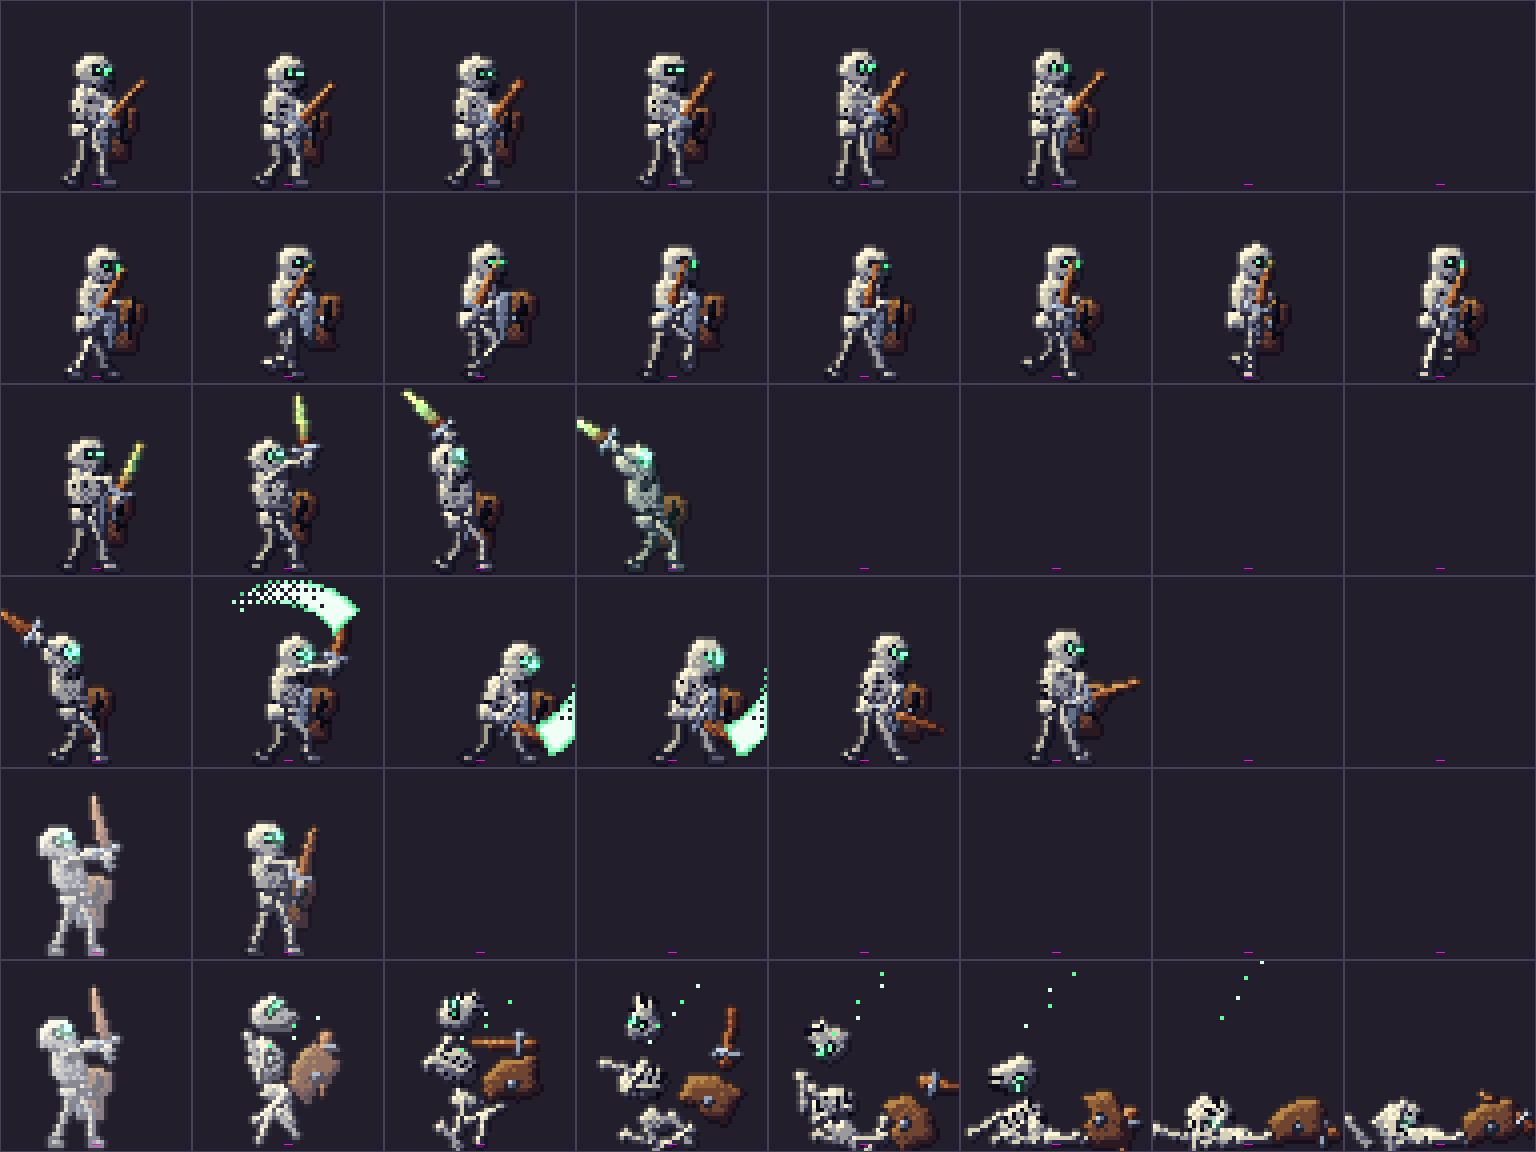
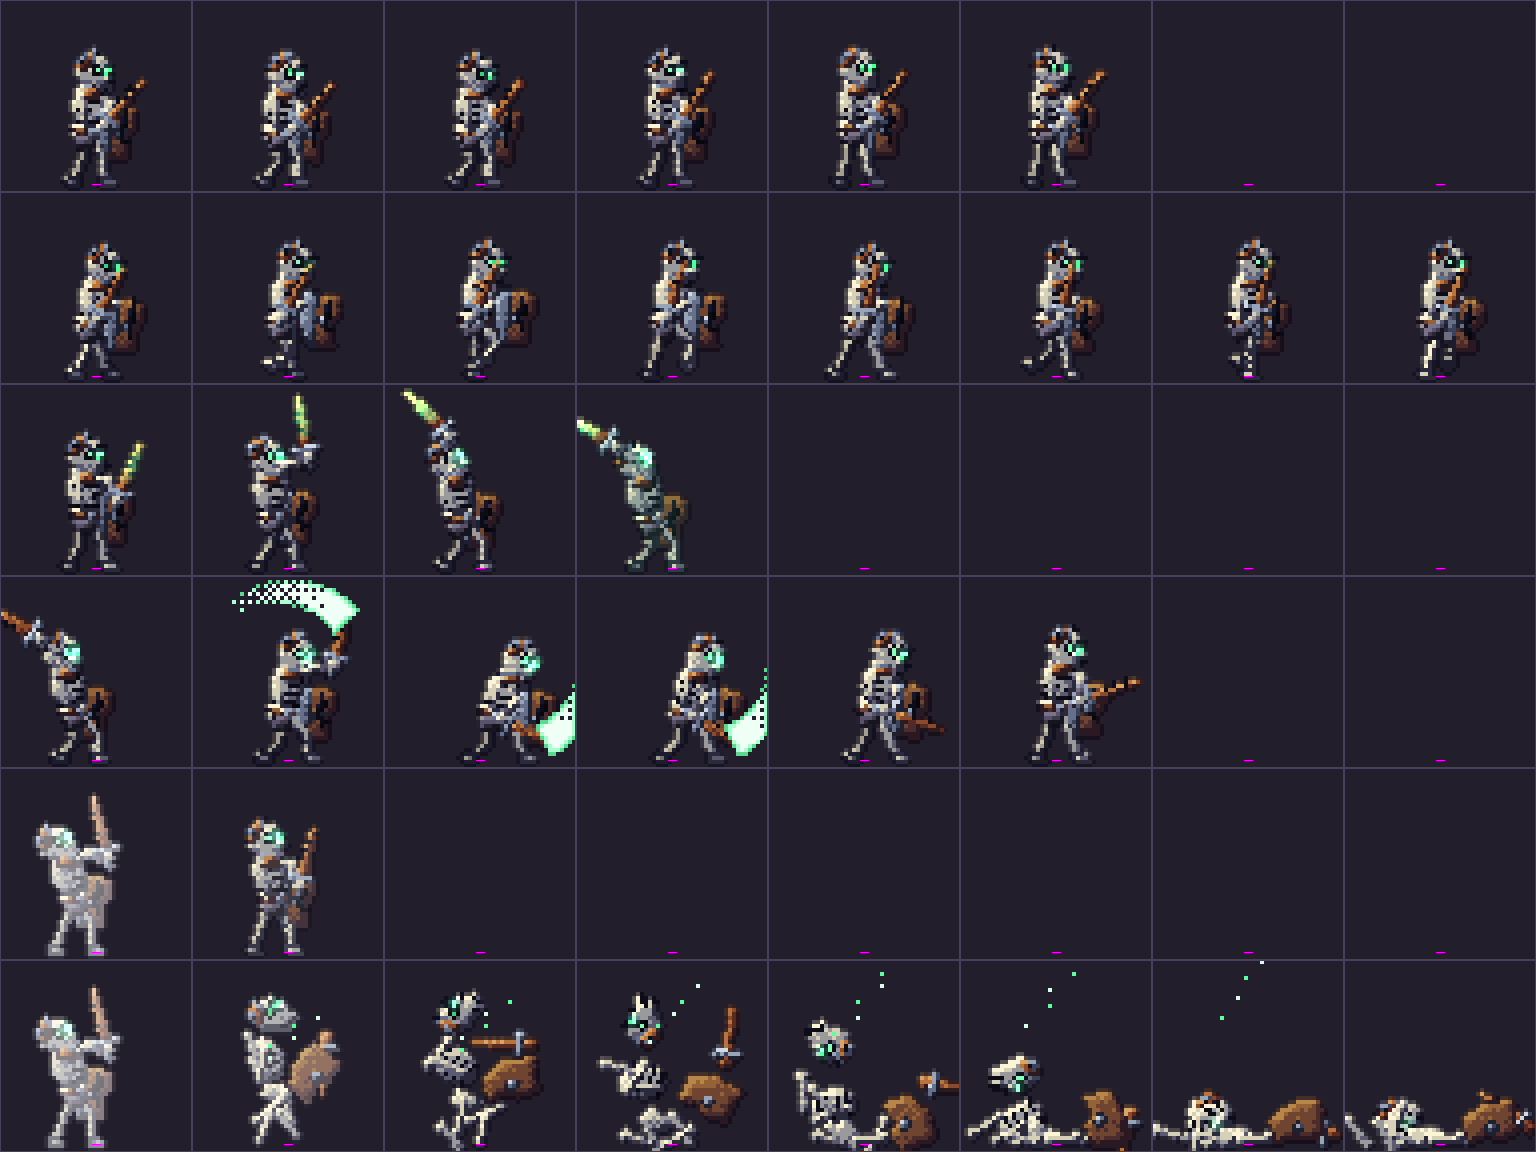
Enemigos (piloto): esqueleto con casquete de hierro oxidado, hombrera, trapo y mellas; herramientas regen/cmp/check de enemigos; diagnostico en ArsenalProbe
Claude-Session: https://claude.ai/code/session_011eeWNo3MRZcztybaatA5Az

diff --git a/tools/art_enemies/en_catacumbas.py b/tools/art_enemies/en_catacumbas.py
@@ -13,7 +13,7 @@ EYE = Mat(ramp=['#1c8a52', '#3cd07a', '#8affb8', '#e8fff0'], emi=True, nooutline
 CLOTH_S = Mat(ramp=['#161420', '#2a2634', '#3f3a4a', '#58526a', '#7a7288'], bevel=1.2, tex=0.3, seed=2)
 
 
-def skel_head(c, x, y, tilt, jaw, eyeamt, mat=BONE):
+def skel_head(c, x, y, tilt, jaw, eyeamt, mat=BONE, cap=False):
     with c.at(x, y, tilt):
         with c.part(mat, bevel=1.6) as p:
             p.ell(0, 0, 4.4, 4.0)                          # craneo
@@ -29,8 +29,21 @@ def skel_head(c, x, y, tilt, jaw, eyeamt, mat=BONE):
         with c.part(DARK) as p:  # dientes
             for k in range(3):
                 p.rect(-0.3 + k * 1.6, 3.7 + jaw * 0.3, 0.3 + k * 1.6, 4.9 + jaw * 0.9)
-        if eyeamt > 0.6:
-            pass
+        with c.part(DARK) as p:                                   # grietas del craneo y arco superciliar
+            p.limb((-0.4, -3.9), (0.3, -1.6), 0.18)
+            p.limb((0.3, -1.6), (-0.5, -0.4), 0.15)
+            p.limb((1.8, -2.0), (4.2, -1.9), 0.16)
+        with c.part(mat, bevel=0.8) as p:                         # pomulo marcado
+            p.poly([(1.6, 1.0), (4.0, 0.9), (4.2, 2.2), (2.2, 2.4)])
+        if cap:                                                   # casquete de hierro oxidado (identidad del esqueleto)
+            with c.part(RUST, line=0.4, bevel=1.2) as p:
+                p.poly([(-4.5, -0.2), (-3.9, -3.8), (-1.2, -4.9), (0.6, -4.4), (-0.4, -2.6), (-2.2, 0.2)])
+            with c.part(IRON, bevel=0.7) as p:
+                p.poly([(-4.4, -1.4), (-3.7, -3.6), (-2.0, -4.4), (-1.9, -3.2)])
+                p.limb((-0.2, -5.0), (0.2, -2.3), 0.35)
+            with c.part(DARK) as p:
+                p.ell(-2.8, -2.3, 0.35)
+                p.ell(0.8, -4.2, 0.3)
 
 
 def skel_pose(a, i, n):
@@ -156,19 +169,32 @@ def draw_esqueleto(c, a, i, n):
                 p.rect(-3.2, -5.4 + k * 2.4, 3.2, -4.7 + k * 2.4 + 0.2)
         with c.part(BONE, bevel=0.8) as p:
             p.limb((-2.0, -6.8), (-1.2, 2.0), 0.9, 0.8)   # esternon/columna visible
-            for k in range(4):
-                p.limb((-2.0, -5.8 + k * 2.4), (3.4, -5.0 + k * 2.4), 0.5, 0.45)
+            p.limb((-2.0, -6.3), (3.8, -7.0), 0.5, 0.45)  # clavicula
     # --- pierna delantera
     leg(c, (hip[0] + 1.0, hip[1] + 1), (hip[0] + 1.0 + f2[0], f2[1]), 6.6, 6.6, 1.0, 0.95, BONE, bend=-1)
+    # trapo de cintura colgando de un cinto de cuero
+    with c.at(hip[0], hip[1], lean * 0.5):
+        with c.part(CLOTH_S, line=0.4, bevel=1.3) as p:
+            p.poly([(-2.4, 1.2), (1.6, 1.0), (2.0, 3.8), (0.8, 4.8), (-0.4, 4.0), (-1.4, 5.4), (-2.6, 3.6)])
+        with c.part(WOODS, line=0.3, bevel=0.8) as p:
+            p.poly([(-3.4, -0.4), (3.4, -0.6), (3.5, 0.9), (-3.4, 1.1)])
+        with c.part(IRON, bevel=0.6) as p:
+            p.rect(0.8, -0.8, 2.2, 1.4)
     # --- cabeza
     skel_head(c, neck[0] + 3.5 * math.sin(lean + P['tilt']) + 0.5, neck[1] - 3.8 * math.cos(lean + P['tilt']) , lean * 0.6 + P['tilt'],
-              P['jaw'], P['eye'])
+              P['jaw'], P['eye'], cap=True)
     # --- brazo espada (cercano)
     A1, A2 = P['arm']
     e, hand = fk(shoulder, A1, 5.8, A2, 5.6)
     # trapo/bufanda
     bone(c, shoulder, e, 0.95, BONE)
     bone(c, e, hand, 0.9, BONE)
+    with c.part(RUST, line=0.4, bevel=1.3) as p:      # hombrera oxidada
+        p.poly([(shoulder[0] - 2.2, shoulder[1] + 1.0), (shoulder[0] - 1.4, shoulder[1] - 1.6), (shoulder[0] + 1.2, shoulder[1] - 2.2), (shoulder[0] + 2.6, shoulder[1] - 0.4), (shoulder[0] + 1.8, shoulder[1] + 1.4)])
+    with c.part(IRON, bevel=0.6) as p:
+        p.limb((shoulder[0] - 1.8, shoulder[1] - 1.8), (shoulder[0] + 2.2, shoulder[1] - 1.4), 0.3)
+    with c.part(CLOTH_S, bevel=0.8) as p:             # venda en la muneca
+        p.limb((lerp(e[0], hand[0], 0.7), lerp(e[1], hand[1], 0.7) - 0.8), (lerp(e[0], hand[0], 0.7), lerp(e[1], hand[1], 0.7) + 0.9), 1.2)
     # espada oxidada
     sa = P['swa']
     d = (math.cos(sa), math.sin(sa))
@@ -184,6 +210,11 @@ def draw_esqueleto(c, a, i, n):
         p.limb((hand[0] + nrm[0] * 2.6 + d[0] * 2.2, hand[1] + nrm[1] * 2.6 + d[1] * 2.2),
                (hand[0] - nrm[0] * 2.6 + d[0] * 2.2, hand[1] - nrm[1] * 2.6 + d[1] * 2.2), 0.8)
         p.limb(base, (hand[0] + d[0] * 1.5, hand[1] + d[1] * 1.5), 0.9)
+    with c.part(DARK) as p:                           # mellas del filo
+        for q in (0.35, 0.55, 0.78):
+            p.poly([(hand[0] + d[0] * (2.5 + 11 * q) - nrm[0] * 1.2, hand[1] + d[1] * (2.5 + 11 * q) - nrm[1] * 1.2),
+                    (hand[0] + d[0] * (3.2 + 11 * q) - nrm[0] * 0.2, hand[1] + d[1] * (3.2 + 11 * q) - nrm[1] * 0.2),
+                    (hand[0] + d[0] * (3.4 + 11 * q) - nrm[0] * 1.3, hand[1] + d[1] * (3.4 + 11 * q) - nrm[1] * 1.3)])
     with c.part(BONE, bevel=0.6) as p:
         p.ell(hand[0], hand[1], 1.4)
     if a == 'windup':
@@ -203,7 +234,7 @@ TRAILM = Mat(ramp=['#2e8a5c', '#5cd890', '#a8ffd0', '#effff6'], emi=True, nooutl
 
 
 def _p_skull(c):
-    skel_head(c, 0, 0, 0, 1.5, 0.2)
+    skel_head(c, 0, 0, 0, 1.5, 0.2, cap=True)
 
 
 def _p_ribs(c):

diff --git a/tools/tests/enemy_sheets_check.py b/tools/tests/enemy_sheets_check.py
@@ -1,0 +1,36 @@
+#!/usr/bin/env python3
+"""Comprueba (automatico, sin dispositivo) las hojas de enemigos/jefes frente a una base git: JSON funcional identico,
+mismo tamano de hoja, ningun fotograma vacio, pies (pivote) y caja de silueta estables y cambio de silueta acotado.
+Uso: enemy_sheets_check.py [BASE]   (BASE por defecto: d9017b6 = antes de la fase de enemigos)"""
+import glob, io, json, os, subprocess, sys
+from PIL import Image, ImageChops
+BASE = sys.argv[1] if len(sys.argv) > 1 else 'd9017b6'
+ROOT = os.path.join(os.path.dirname(os.path.abspath(__file__)), '..', '..')
+def git(path):
+    return subprocess.run(['git', 'show', f'{BASE}:{path}'], cwd=ROOT, capture_output=True, check=True).stdout
+bad = 0; n_ok = 0
+for png in sorted(glob.glob(os.path.join(ROOT, 'Shared/assets/sprites/en_*.png')) + glob.glob(os.path.join(ROOT, 'Shared/assets/sprites/bs_*.png'))):
+    rel = os.path.relpath(png, ROOT); name = os.path.basename(png)
+    try:
+        old = Image.open(io.BytesIO(git(rel))).convert('RGBA'); oj = git(rel[:-4] + '.json')
+    except subprocess.CalledProcessError:
+        print('NUEVO ', name); continue
+    new = Image.open(png).convert('RGBA'); nj = open(png[:-4] + '.json', 'rb').read()
+    errs = []
+    if oj != nj: errs.append('JSON funcional distinto')
+    if new.size != old.size: errs.append(f'tamano de hoja {old.size}->{new.size}')
+    else:
+        d = json.loads(nj); cw, ch = d['cell']
+        for an, a in d['anims'].items():
+            for i in range(a['n']):
+                box = (i * cw, a['row'] * ch, (i + 1) * cw, (a['row'] + 1) * ch)
+                o, nw = old.crop(box).getchannel('A'), new.crop(box).getchannel('A')
+                bo, bn = o.getbbox(), nw.getbbox()
+                if bn is None and bo is not None: errs.append(f'{an}[{i}] fotograma vacio'); continue
+                if bo and bn and (abs(bo[3] - bn[3]) > 2 or abs(bo[1] - bn[1]) > 6 or abs(bo[0] - bn[0]) > 6 or abs(bo[2] - bn[2]) > 6): errs.append(f'{an}[{i}] caja de silueta {bo}->{bn}')
+                npx = max(1, sum(1 for v in o.getdata() if v)); dpx = sum(1 for v in ImageChops.difference(o, nw).getdata() if v)
+                if dpx / npx > 0.35: errs.append(f'{an}[{i}] silueta cambia {dpx * 100 // npx}%')
+    if errs: bad += 1; print('FALLA', name, '; '.join(errs[:4]))
+    else: n_ok += 1
+print(f'ENEMY SHEETS ok={n_ok} fallos={bad}')
+sys.exit(1 if bad else 0)

diff --git a/tools/art_enemies/cmp_enemy.py b/tools/art_enemies/cmp_enemy.py
@@ -1,0 +1,32 @@
+#!/usr/bin/env python3
+"""Comparacion antes (HEAD) / despues (disco) de enemigos a escala de juego (x3) y ampliada (x6).
+Uso: cmp_enemy.py nombre [nombre...] ; salida docs/capturas_arte/enemigos_<primero>_..."""
+import io, json, os, subprocess, sys
+from PIL import Image
+ROOT = os.path.join(os.path.dirname(os.path.abspath(__file__)), '..', '..')
+BG = (34, 28, 48, 255)
+names = sys.argv[1:]
+def load(rel, head):
+    if head:
+        return Image.open(io.BytesIO(subprocess.run(['git', 'show', 'HEAD:' + rel], cwd=ROOT, capture_output=True, check=True).stdout)).convert('RGBA')
+    return Image.open(os.path.join(ROOT, rel)).convert('RGBA')
+pick = ['idle', 'walk', 'windup', 'attack', 'hurt', 'death']
+rows = []
+for n in names:
+    rel = 'Shared/assets/sprites/en_%s.png' % n
+    d = json.load(open(os.path.join(ROOT, rel[:-4] + '.json')))
+    cw, ch = d['cell']
+    old, new = load(rel, True), load(rel, False)
+    for key in ('idle', 'attack', 'death'):
+        a = d['anims'][key]; f = {'idle': 0, 'attack': a['n'] // 2, 'death': min(2, a['n'] - 1)}[key]
+        rows.append((old, new, a['row'], f, cw, ch))
+S = 5
+W = Image.new('RGB', (max(r[4] for r in rows) * S * 2 + 8, sum(r[5] for r in rows) * S + 3 * len(rows)), (0, 0, 0))
+y = 0
+for old, new, row, f, cw, ch in rows:
+    for k, im in enumerate((old, new)):
+        t = Image.new('RGBA', (cw, ch), BG); t.alpha_composite(im.crop((f * cw, row * ch, f * cw + cw, row * ch + ch)))
+        W.paste(t.resize((cw * S, ch * S), Image.NEAREST).convert('RGB'), (k * (cw * S + 8), y))
+    y += ch * S + 3
+out = os.path.join(ROOT, 'docs/capturas_arte/enemigos_%s_antes_izq_despues_der.png' % '_'.join(names[:3]))
+W.save(out); print(out)

diff --git a/Shared/src/main/java/com/julianfarks/roguelike/core/ArsenalProbe.java b/Shared/src/main/java/com/julianfarks/roguelike/core/ArsenalProbe.java
@@ -88,6 +88,7 @@ final class ArsenalProbe {
         ck("sin secundaria: elegir la principal (ya activa) no hace nada: sin animacion ni enfriamiento", !rs.secActive && p.swapAnimT <= 0 && p.swapCd <= 0);
         Enemy dm = dummy(40);
         hold('J', 20);
+        for (Proj dp : lv.projs) System.out.println("AT DIAG proyectil sobrante: sprite=" + dp.sprite + " friendly=" + dp.friendly + " x=" + dp.x + " y=" + dp.y + " vx=" + dp.vx + " vy=" + dp.vy + " life=" + dp.life + " dmg=" + dp.dmg + " jugador=(" + p.x + "," + p.y + ") enemigos=" + lv.enemies.size());
         ck("sin secundaria: el ataque sigue siendo el de la clase (sin proyectiles)", lv.projs.isEmpty());
 
         // ---------------------------------------------------------------- 2. recoger la primera secundaria del suelo (sin recogida automatica)
